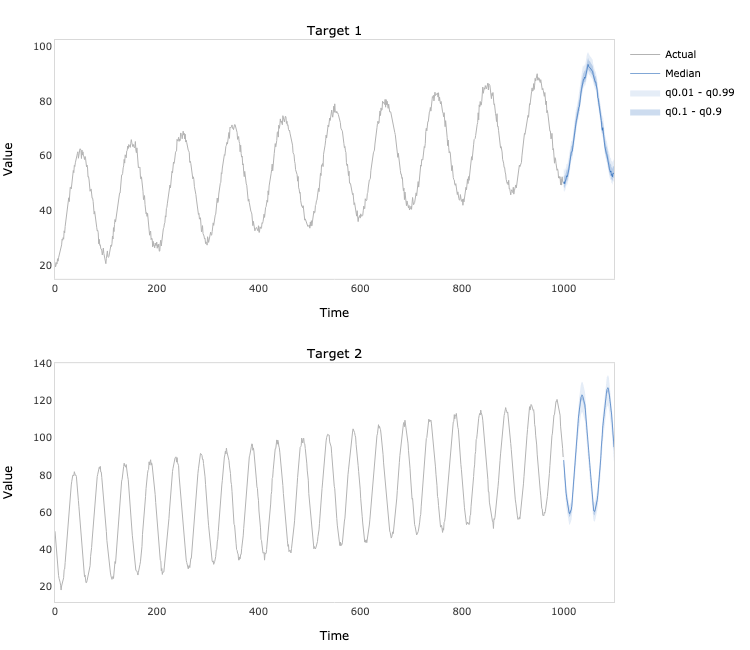
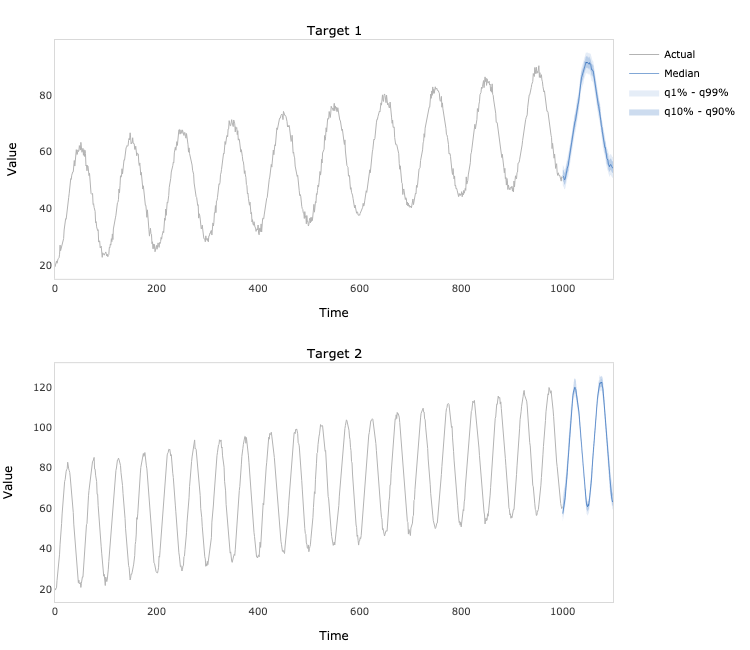
update example

diff --git a/deep_tcn_tensorflow/plots.py b/deep_tcn_tensorflow/plots.py
@@ -97,8 +97,8 @@ def plot(df, q, n_targets, n_quantiles):
                 go.Scatter(
                     x=df['time_idx'],
                     y=df['target_' + str(i + 1) + '_' + str(q[- (j + 1)])],
-                    name='q' + str(q[j]) + ' - q' + str(q[- (j + 1)]),
-                    legendgroup='q' + str(q[j]) + ' - q' + str(q[- (j + 1)]),
+                    name='q' + format(q[j], '.0%') + ' - q' + format(q[- (j + 1)], '.0%'),
+                    legendgroup='q' + format(q[j], '.0%') + ' - q' + format(q[- (j + 1)], '.0%'),
                     showlegend=False,
                     mode='lines',
                     line=dict(
@@ -114,8 +114,8 @@ def plot(df, q, n_targets, n_quantiles):
                 go.Scatter(
                     x=df['time_idx'],
                     y=df['target_' + str(i + 1) + '_' + str(q[j])],
-                    name='q' + str(q[j]) + ' - q' + str(q[- (j + 1)]),
-                    legendgroup='q' + str(q[j]) + ' - q' + str(q[- (j + 1)]),
+                    name='q' + format(q[j], '.0%') + ' - q' + format(q[- (j + 1)], '.0%'),
+                    legendgroup='q' + format(q[j], '.0%') + ' - q' + format(q[- (j + 1)], '.0%'),
                     showlegend=True if i == 0 else False,
                     mode='lines',
                     fill='tonexty',

diff --git a/example/example.py b/example/example.py
@@ -4,9 +4,9 @@ from deep_tcn_tensorflow.model import DeepTCN
 # Generate two time series
 N = 1000
 t = np.linspace(0, 1, N)
-e = np.random.multivariate_normal(mean=[0, 0], cov=[[1, 0.25], [0.25, 1]], size=N)
+e = np.random.multivariate_normal(mean=np.zeros(2), cov=np.eye(2), size=N)
 a = 40 + 30 * t + 20 * np.cos(2 * np.pi * (10 * t - 0.5)) + e[:, 0]
-b = 50 + 40 * t + 30 * np.sin(2 * np.pi * (20 * t - 0.5)) + e[:, 1]
+b = 50 + 40 * t + 30 * np.cos(2 * np.pi * (20 * t - 0.5)) + e[:, 1]
 y = np.hstack([a.reshape(- 1, 1), b.reshape(- 1, 1)])
 
 # Fit the model
@@ -23,8 +23,8 @@ model = DeepTCN(
 )
 
 model.fit(
-    learning_rate=0.01,
-    batch_size=64,
+    learning_rate=0.001,
+    batch_size=32,
     epochs=200,
     verbose=1
 )

diff --git a/deep_tcn_tensorflow/modules.py b/deep_tcn_tensorflow/modules.py
@@ -36,7 +36,7 @@ def encoder(encoder_input, filters, kernel_size, dilation_rate):
     encoder_output = BatchNormalization()(encoder_output)
 
     if encoder_input.shape[-1] != encoder_output.shape[-1]:
-        encoder_input = Conv1D(filters=1, kernel_size=1)(encoder_input)
+        encoder_input = Conv1D(filters=filters, kernel_size=1, padding='same')(encoder_input)
 
     encoder_output = Add()([encoder_input, encoder_output])
     encoder_output = ReLU()(encoder_output)

diff --git a/README.MD b/README.MD
@@ -24,9 +24,9 @@ from deep_tcn_tensorflow.model import DeepTCN
 # Generate two time series
 N = 1000
 t = np.linspace(0, 1, N)
-e = np.random.multivariate_normal(mean=[0, 0], cov=[[1, 0.25], [0.25, 1]], size=N)
+e = np.random.multivariate_normal(mean=np.zeros(2), cov=np.eye(2), size=N)
 a = 40 + 30 * t + 20 * np.cos(2 * np.pi * (10 * t - 0.5)) + e[:, 0]
-b = 50 + 40 * t + 30 * np.sin(2 * np.pi * (20 * t - 0.5)) + e[:, 1]
+b = 50 + 40 * t + 30 * np.cos(2 * np.pi * (20 * t - 0.5)) + e[:, 1]
 y = np.hstack([a.reshape(- 1, 1), b.reshape(- 1, 1)])
 
 # Fit the model
@@ -43,8 +43,8 @@ model = DeepTCN(
 )
 
 model.fit(
-    learning_rate=0.01,
-    batch_size=64,
+    learning_rate=0.001,
+    batch_size=32,
     epochs=200,
     verbose=1
 )
